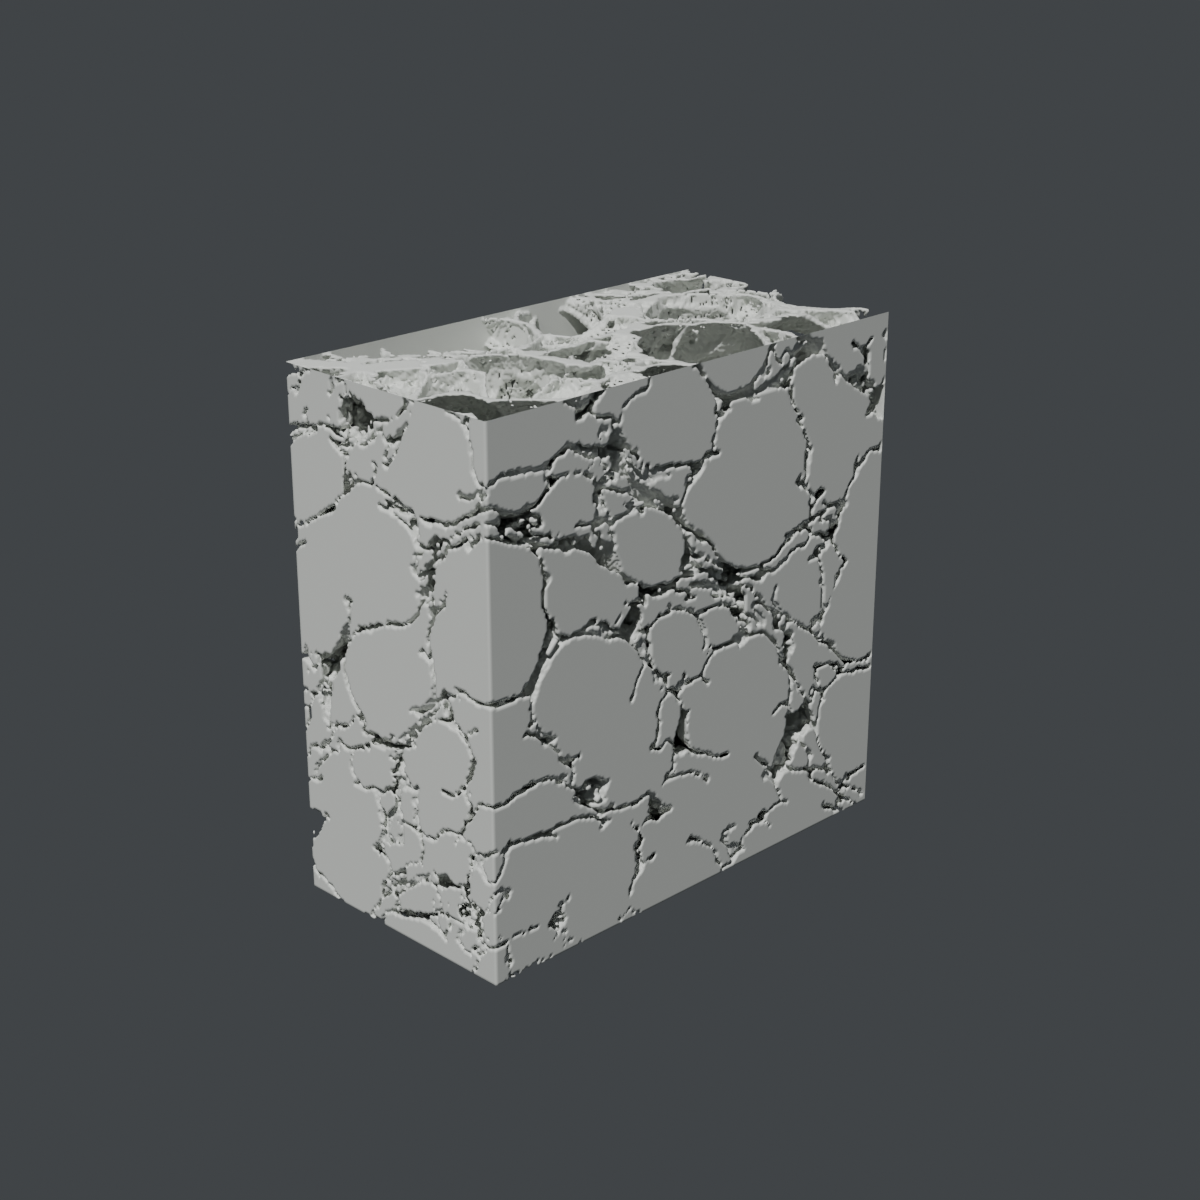
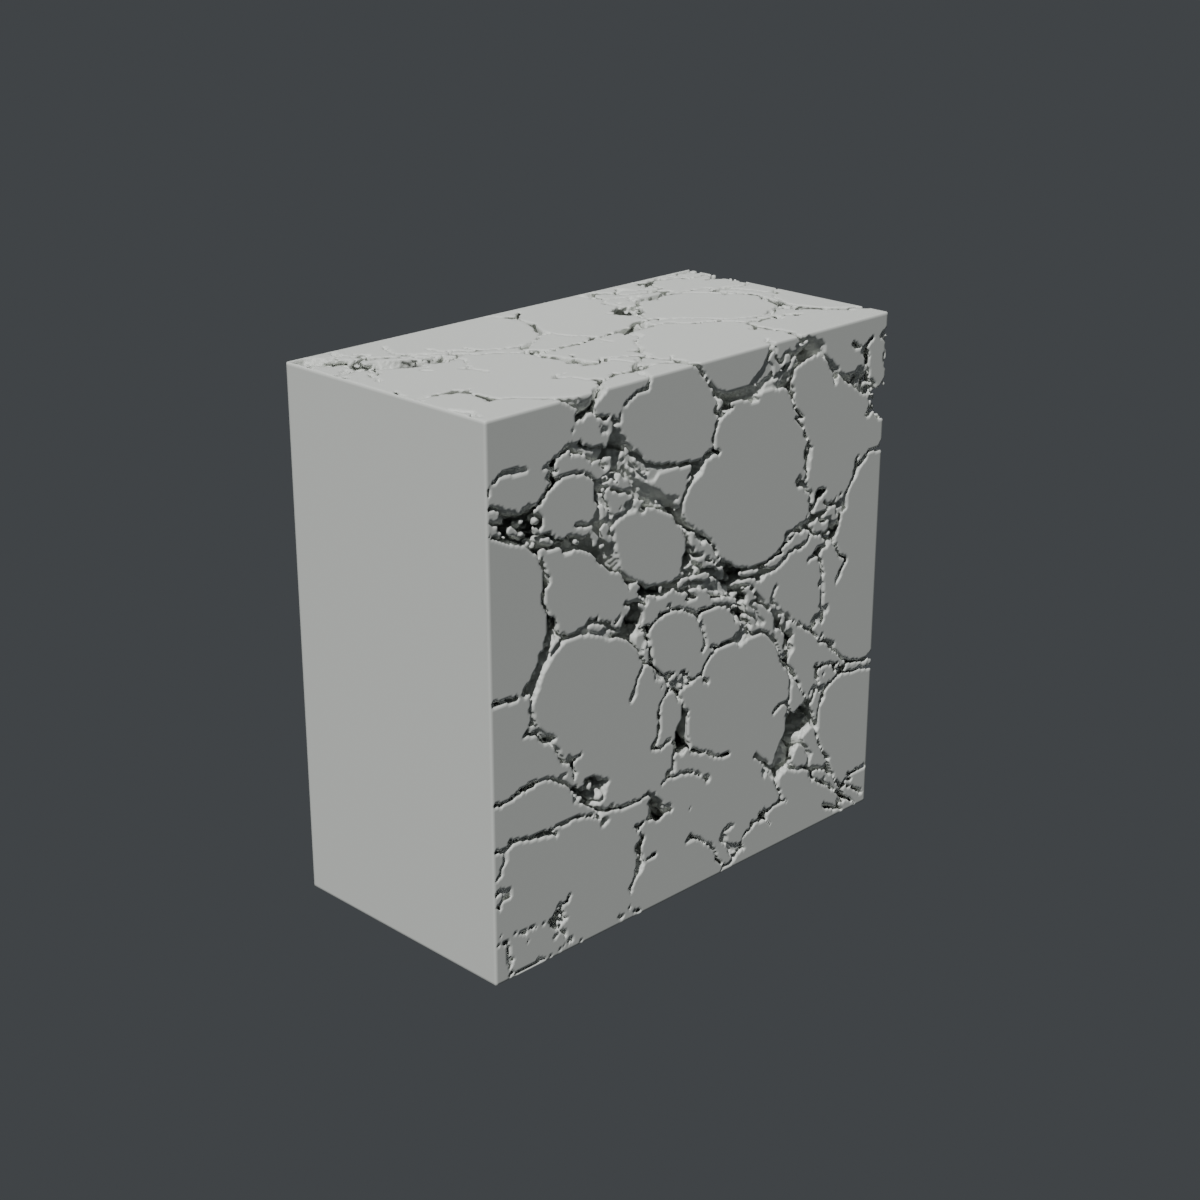
Fix missing 3 box faces in air mesh (pad 1 + step_size 2 drops pad layer on max sides -> pad 2); mesh now closed, volume 100.2% of voxel truth

diff --git a/scripts/make_air_2p5mm.py b/scripts/make_air_2p5mm.py
@@ -26,7 +26,10 @@ def main() -> None:
     v_true = air.sum() * VOXEL_UM**3 / 1e9
     print(f"air: {air.mean():.3f} fraction, {v_true:.3f} mm3 (voxel truth)", flush=True)
 
-    padded = np.pad(air, 1, constant_values=False)
+    # pad 2 layers: step_size=2 samples every 2nd voxel ([::2]), so a 1-layer
+    # pad lands on an odd index at the max sides and gets dropped -> 3 missing
+    # box faces (user caught this by overlaying tissue vs air in Blender)
+    padded = np.pad(air, 2, constant_values=False)
     verts, faces, _, _ = marching_cubes(
         padded.astype(np.float32), level=0.5, spacing=(VOXEL_UM,) * 3, step_size=2
     )

diff --git a/scripts/make_air_section.py b/scripts/make_air_section.py
@@ -25,7 +25,8 @@ def main() -> None:
     air = ~mask
     air[256:, :, :] = False  # upper half -> solid: cut plane at z = 1.25 mm
 
-    padded = np.pad(air, 1, constant_values=False)
+    # pad 2 layers: with step_size=2 a 1-layer pad is dropped at the max sides
+    padded = np.pad(air, 2, constant_values=False)
     verts, faces, _, _ = marching_cubes(
         padded.astype(np.float32), level=0.5, spacing=(VOXEL_UM,) * 3, step_size=2
     )

diff --git a/REPORT_human_lung_RVE.md b/REPORT_human_lung_RVE.md
@@ -109,7 +109,7 @@ Phase-Contrast Tomography), линия BM05.**
 | `data/preview/lung_alveolar_rve_4.9um_preview.stl` | 143 МБ, 2.87 млн тр. | то же, более детальная версия |
 | `data/cube_4.9um_512.npy` | 268 МБ | сырой куб 512³ uint16 (интенсивности) |
 | `data/cube_4.9um_512_mask.npz` | 5.2 МБ | бинарная маска ткани — **из неё меш любого разрешения пересобирается одной командой** |
-| `data/preview/lung_air_2p5um_mc2.stl` | 399 МБ, 7.99 млн тр. | **фаза воздуха всего куба 2.5 мм**: точное воксельное дополнение маски ткани (MC шаг 2, без децимации), нормали наружу; срез-превью — `render_air_section.png` |
+| `data/preview/lung_air_2p5um_mc2.stl` | 419 МБ, 8.38 млн тр. | **фаза воздуха всего куба 2.5 мм**: точное воксельное дополнение маски ткани (MC шаг 2, без децимации), замкнута — объём 13.16 мм³ при истинных 13.12 (100.2 %); срез — `render_air_section.png` |
 | `data/preview/mask_overlay_z{128,256,384}.png` | ~0.35 МБ | контроль сегментации (красный контур на срезах) |
 | `data/preview/jp2_4.9um_slices_montage.png` | 2.4 МБ | 16 срезов через весь объём |
 | `data/preview/roi_check.png` | 0.6 МБ | выбранный ROI на трёх глубинах |
@@ -122,14 +122,18 @@ Phase-Contrast Tomography), линия BM05.**
 
 Воздух куба 2.5 мм (13.12 мм³, доля 83.1 %) — `lung_air_2p5um_mc2.stl`: строится как
 **точное дополнение маски** (воксель не-ткани → воздух), той же выборкой MC шаг 2,
-что и тканевый preview, **без децимации**. Первая попытка (кластерная децимация
-14.7/19.6 мкм) дала разрушенный меш — тонкие стенки пробиваются, файлы удалены;
-урок тот же, что с «ёжиком»: этой геометрии децимация противопоказана.
-Снаружи воздушная фаза — замкнутая «коробка» (воздух касается всех граней куба),
-еём структура видна на воксельном срезе `render_air_section.png` (верхняя половина
-заполнена тканью, срез построен marching cubes из вокселей — без булевых операций
-на меше). Ограничение: шаг 2 оставляет микродыры в стенках (объём по замкнутым
-областям 2.7 мм³ из 13.1) — для CFD нужен полный шаг 1 + ремонт поверхности.
+что и тканевый preview, **без децимации**. Стенки альвеол — общая поверхность двух
+фаз: при наложении тканевого и воздушного мешей внутренние поверхности совпадают
+грань в грань (нормали противоположны) — это свойство комплементарных фаз, а не баг;
+отличие воздушного меша — внешняя оболочка куба (6 граней). Первая попытка (кластерная
+децимация 14.7/19.6 мкм) дала разрушенный меш — файлы удалены. Второй баг нашёл
+пользователь наложением мешей в Blender: pad в 1 слой + step_size=2 выбрасывает
+pad-слой на max-сторонах (`[::2]`), и 3 из 6 граней оболочки не строились —
+исправлено падом в 2 слоя; итог замкнут, объём по мешу 13.16 мм³ (100.2 % истинного).
+Срез для просмотра — `render_air_section.png` (верхняя половина заполнена тканью,
+построено marching cubes из вокселей, без булевых операций). Для CFD-прогона
+надёжен полный шаг 1 + контроль `surfaceCheck`; шаг 2 оставляет в стенках редкие
+микродыры.
 
 ### 5.3 Набор из 10 плиток для склейки в большой объём — `data/tiles/`
 
